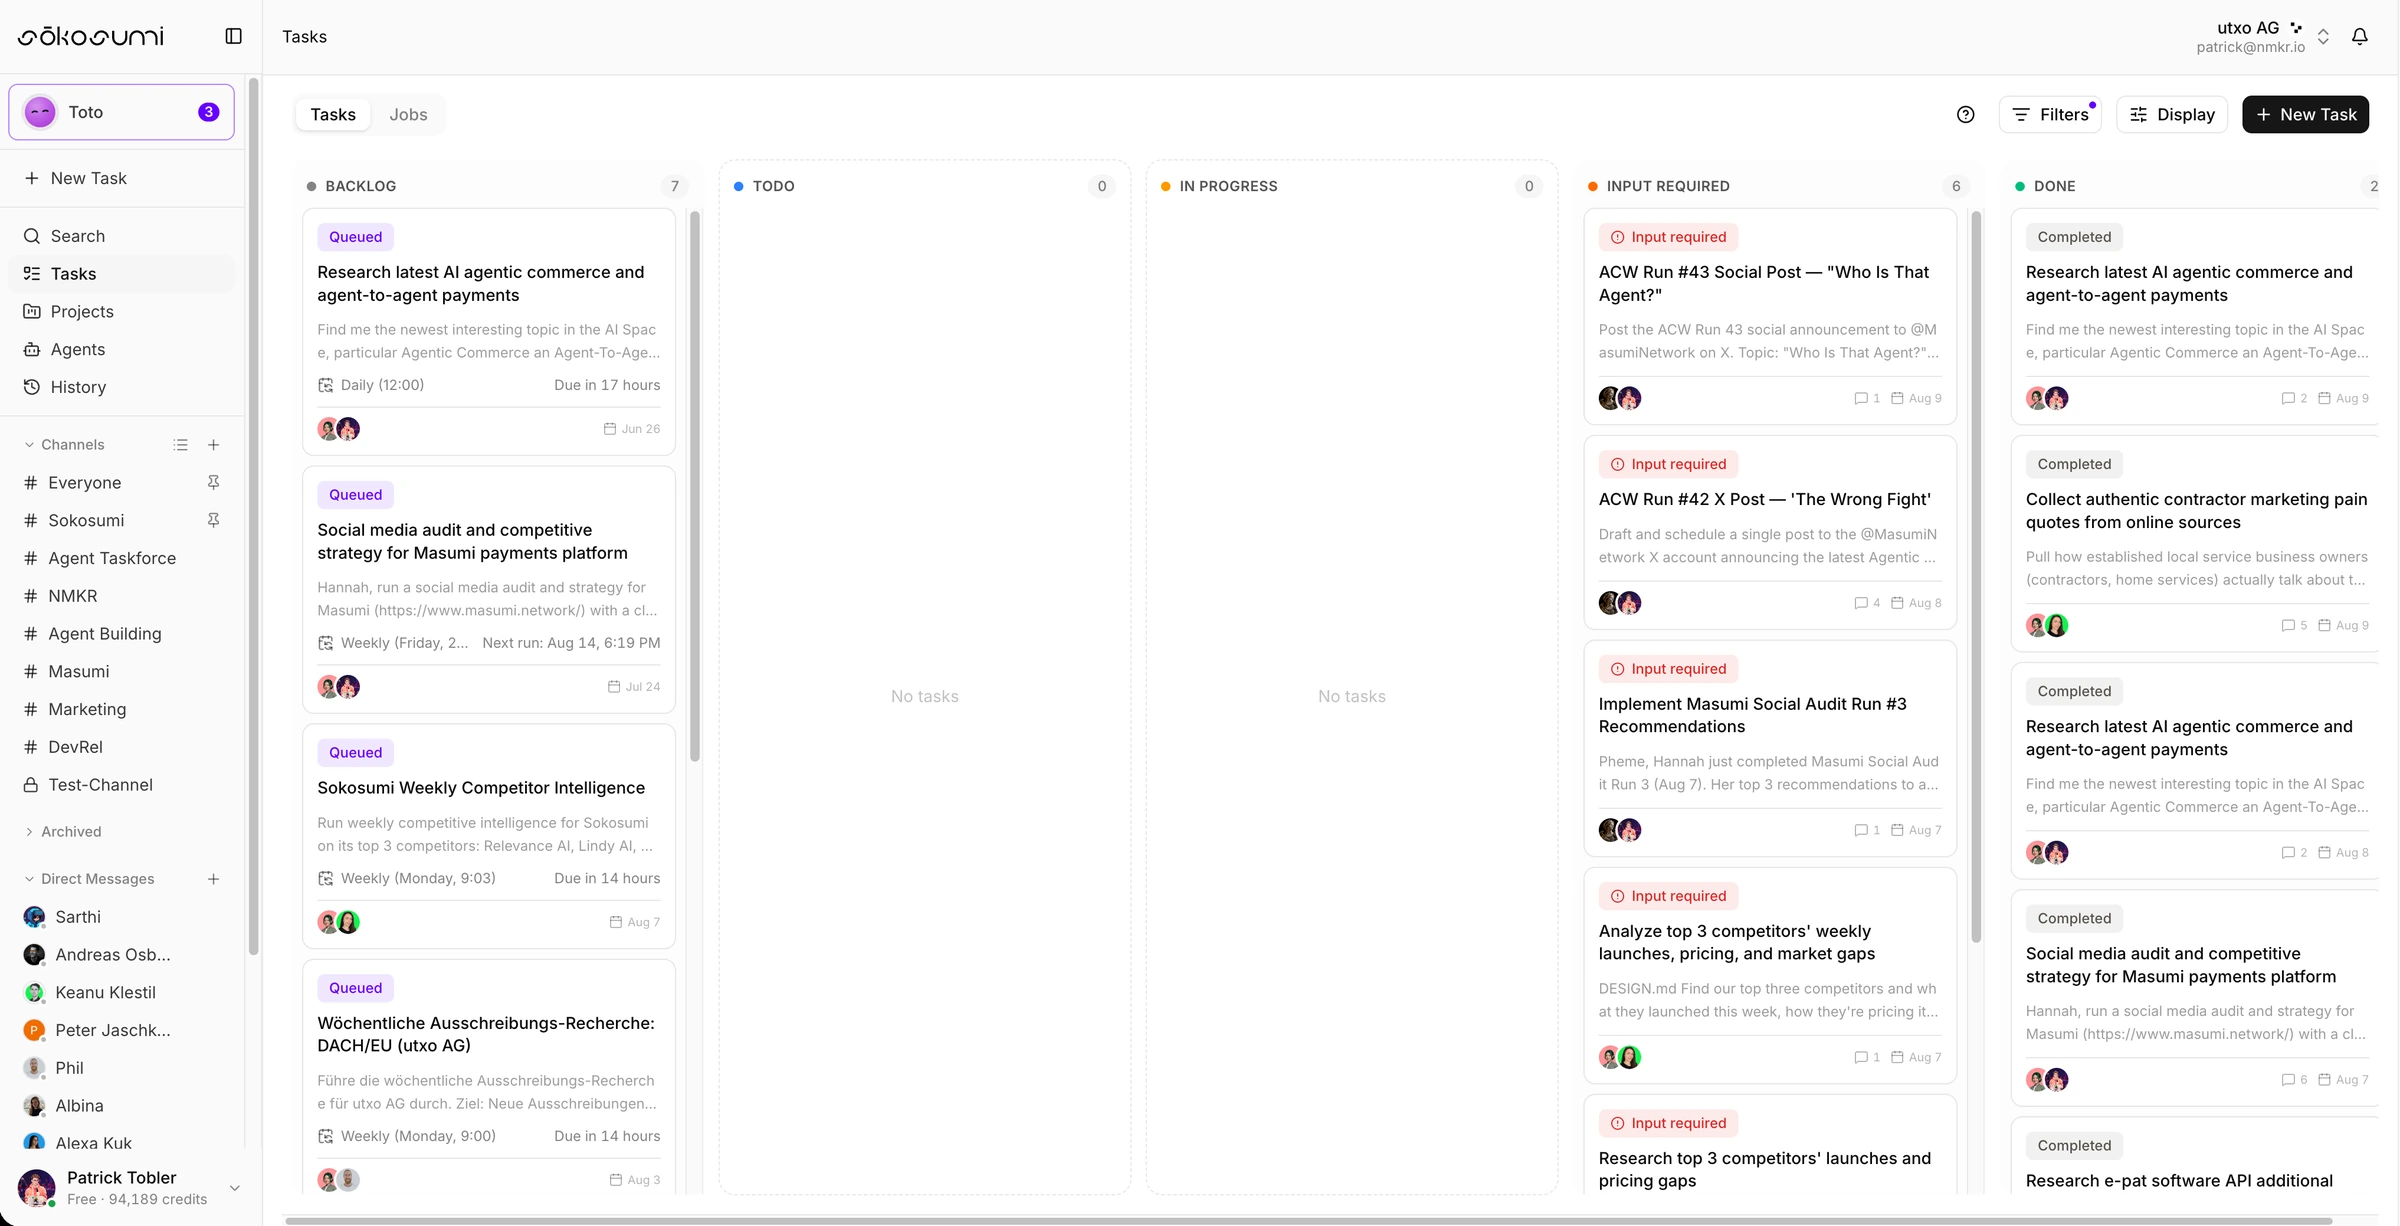
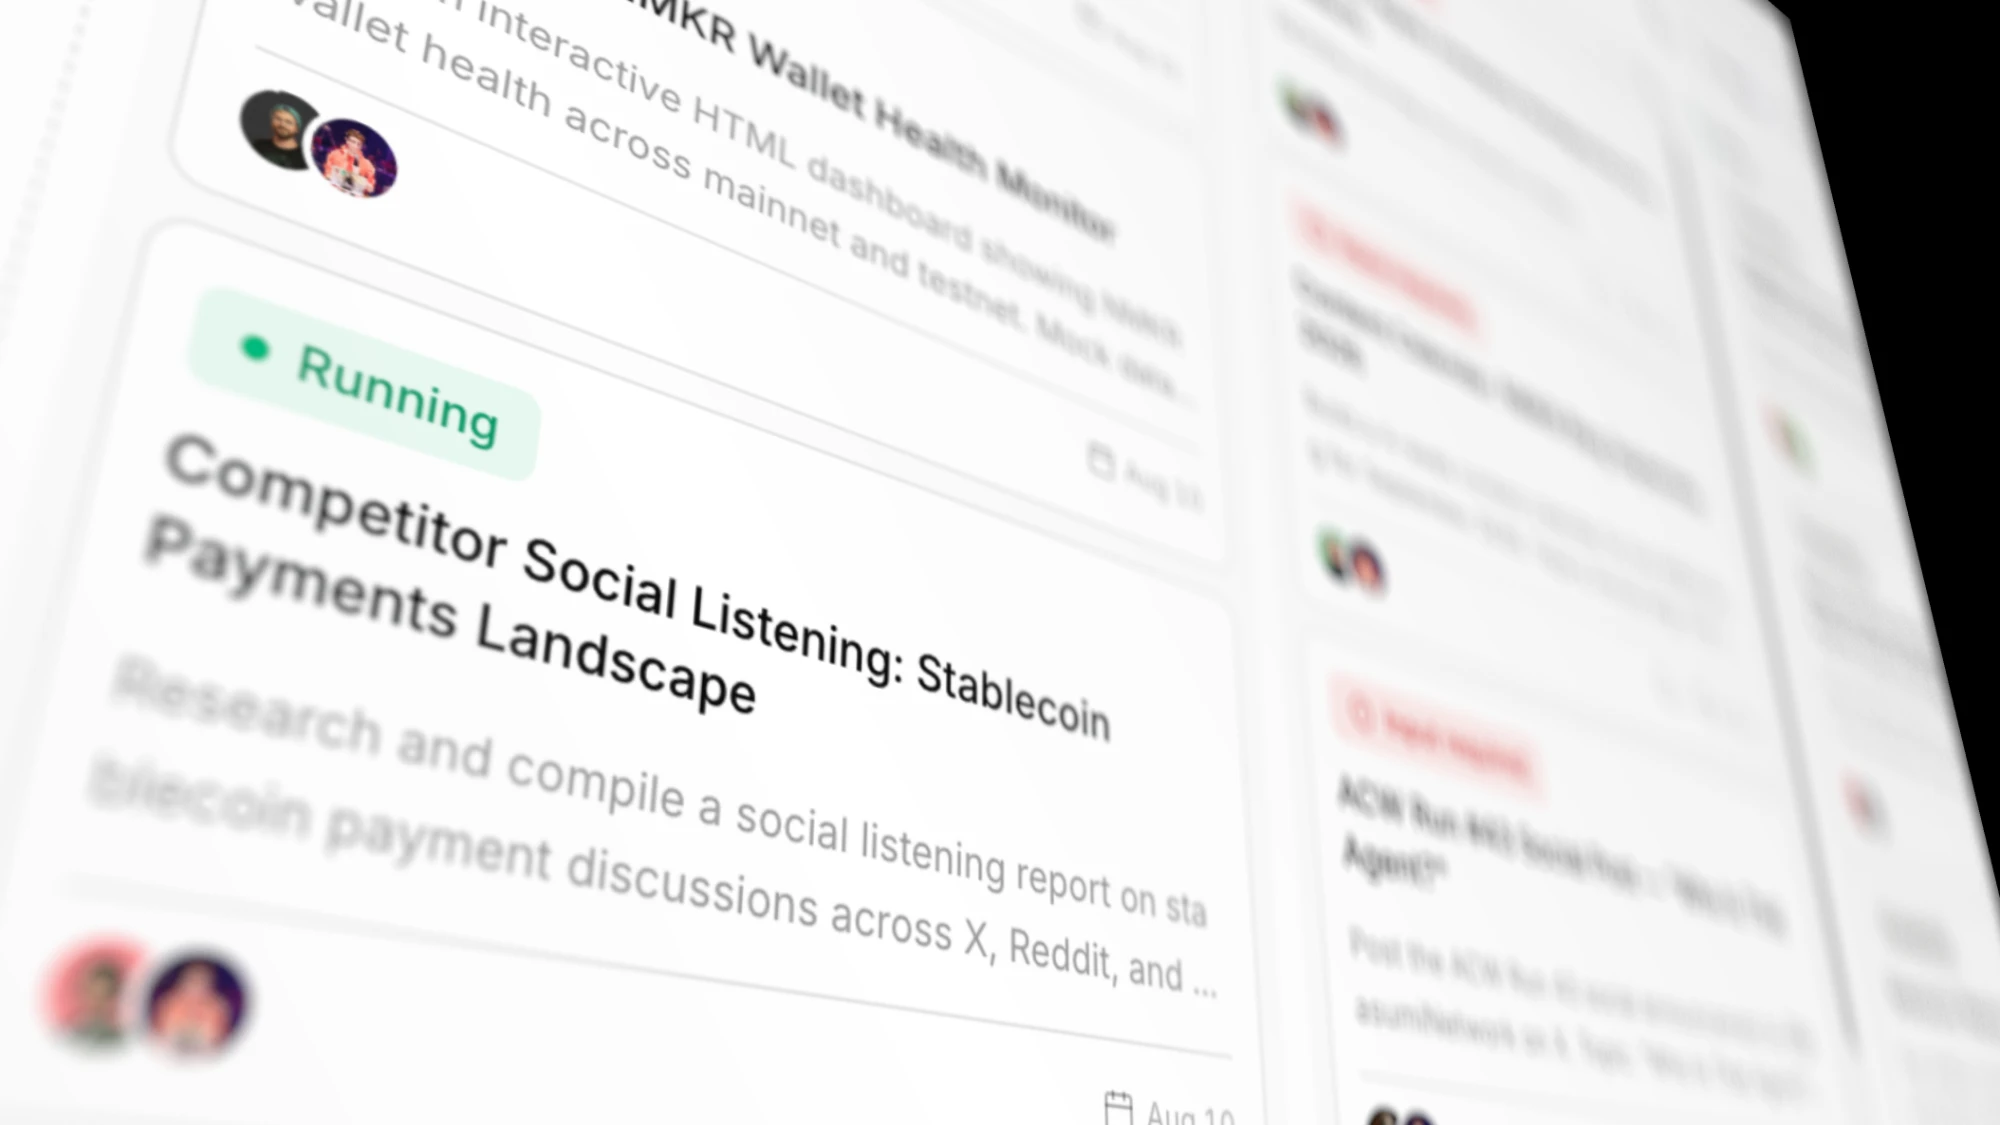
sokosumi: new second carousel image (task board product shot)

diff --git a/apps/sokosumi/index.html b/apps/sokosumi/index.html
@@ -865,7 +865,7 @@
                   <div class="shot-frame">
                     <div class="shot-bar" aria-hidden="true"><span></span><span></span><span></span><i>app.sokosumi.com</i></div>
                     <div class="shot-canvas">
-                      <img src="/assets/shot-tasks.webp" alt="The Sokosumi task board: agent tasks across backlog, in progress, input required, and done columns" width="2400" height="1226" loading="lazy" decoding="async" />
+                      <img src="/assets/shot-tasks.webp" alt="The Sokosumi task board: agent tasks across backlog, in progress, input required, and done columns" width="2000" height="1125" loading="lazy" decoding="async" />
                     </div>
                   </div>
                 </div>
